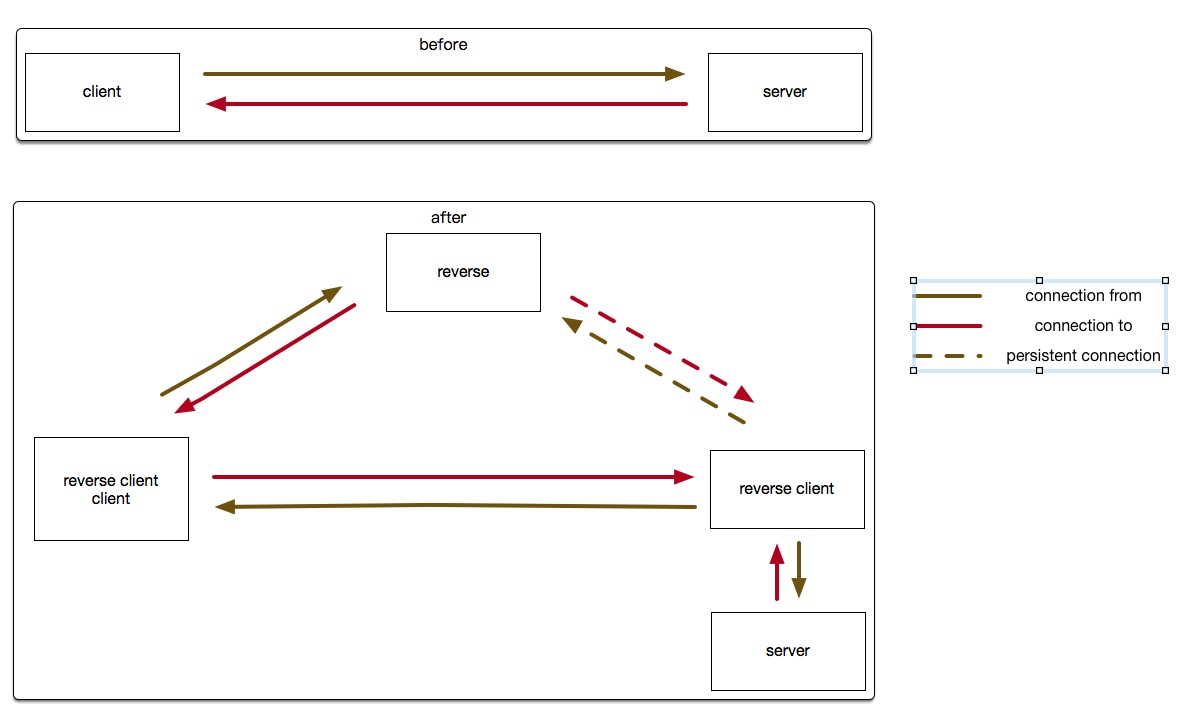
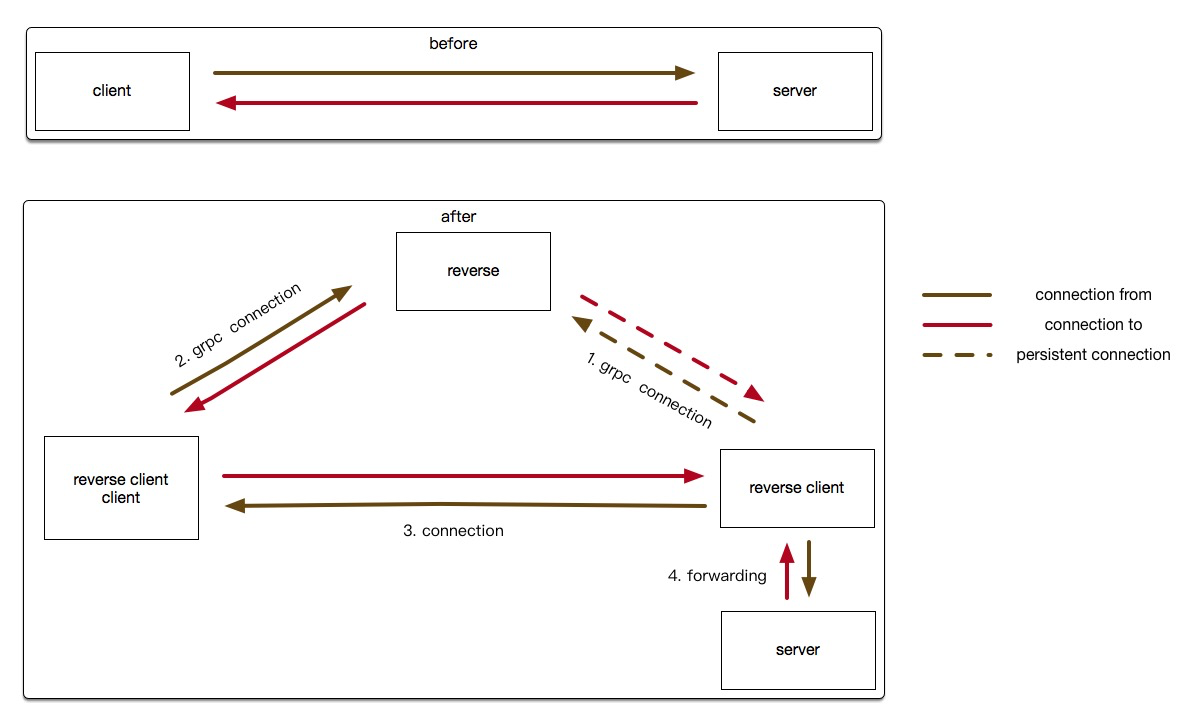
feat: update readme

diff --git a/README.md b/README.md
@@ -12,9 +12,10 @@ service is for server side service.
 
 rpc is reverse rpc server.
 
-1. client should listen on one port, and send ClientConnect to reverse server.
-2. reverse server use persistent connection to tell reverse client (server side) to connect to the client port.
-3. reverse client(server side) should connect to client port and connect to server ,then act as a proxy pass the request.
+1. reverse client build a persistent connection to reverse server when reverse client start.
+2. client listen on one port and send grpc request to reverse server with ip, port, reverse client id and service name which run on reverse client
+3. reverse server send request to reverse client
+4. reverse client connect to client and connect to server and forward the data between the two connections
 
 Don't need to change server code.
 
